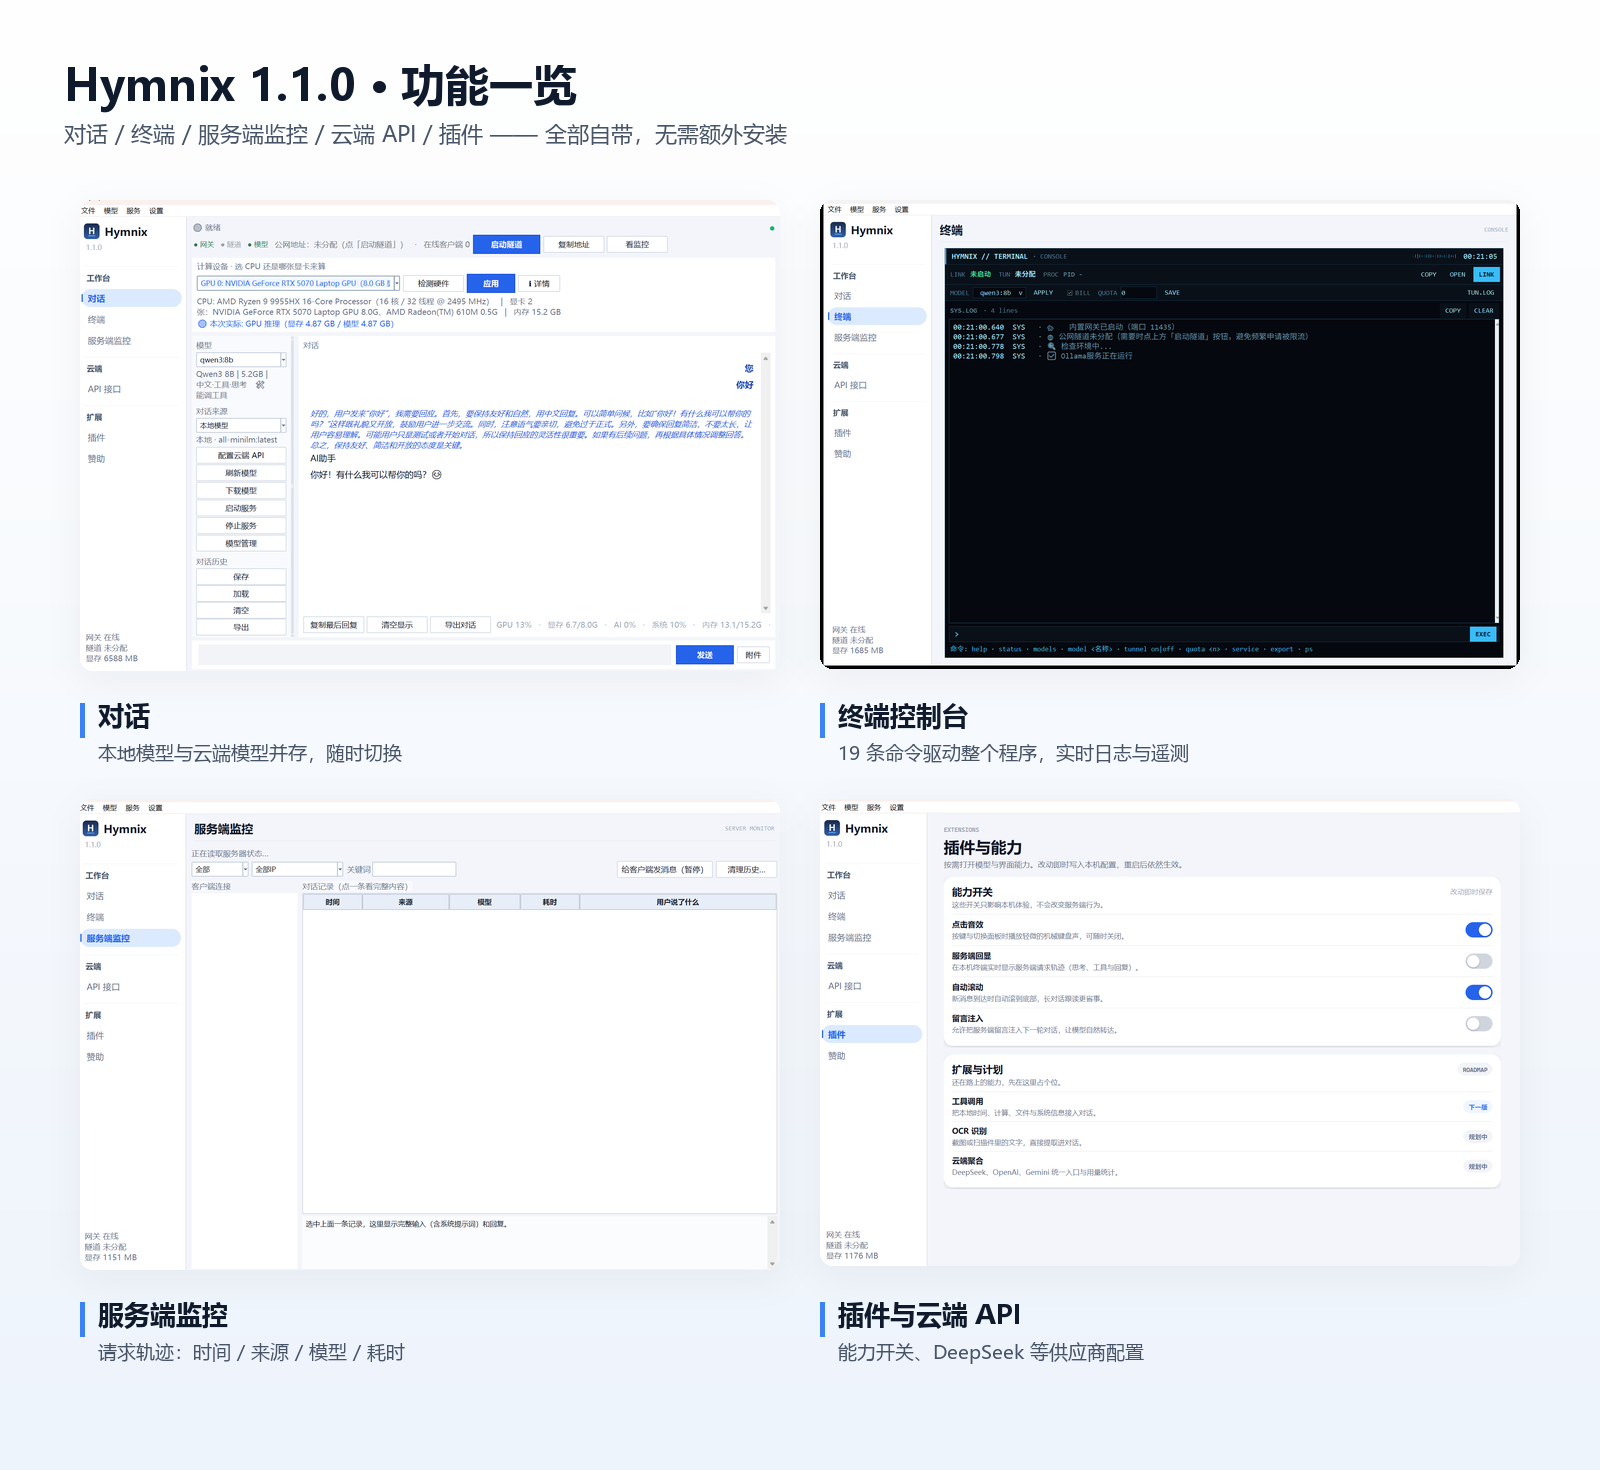
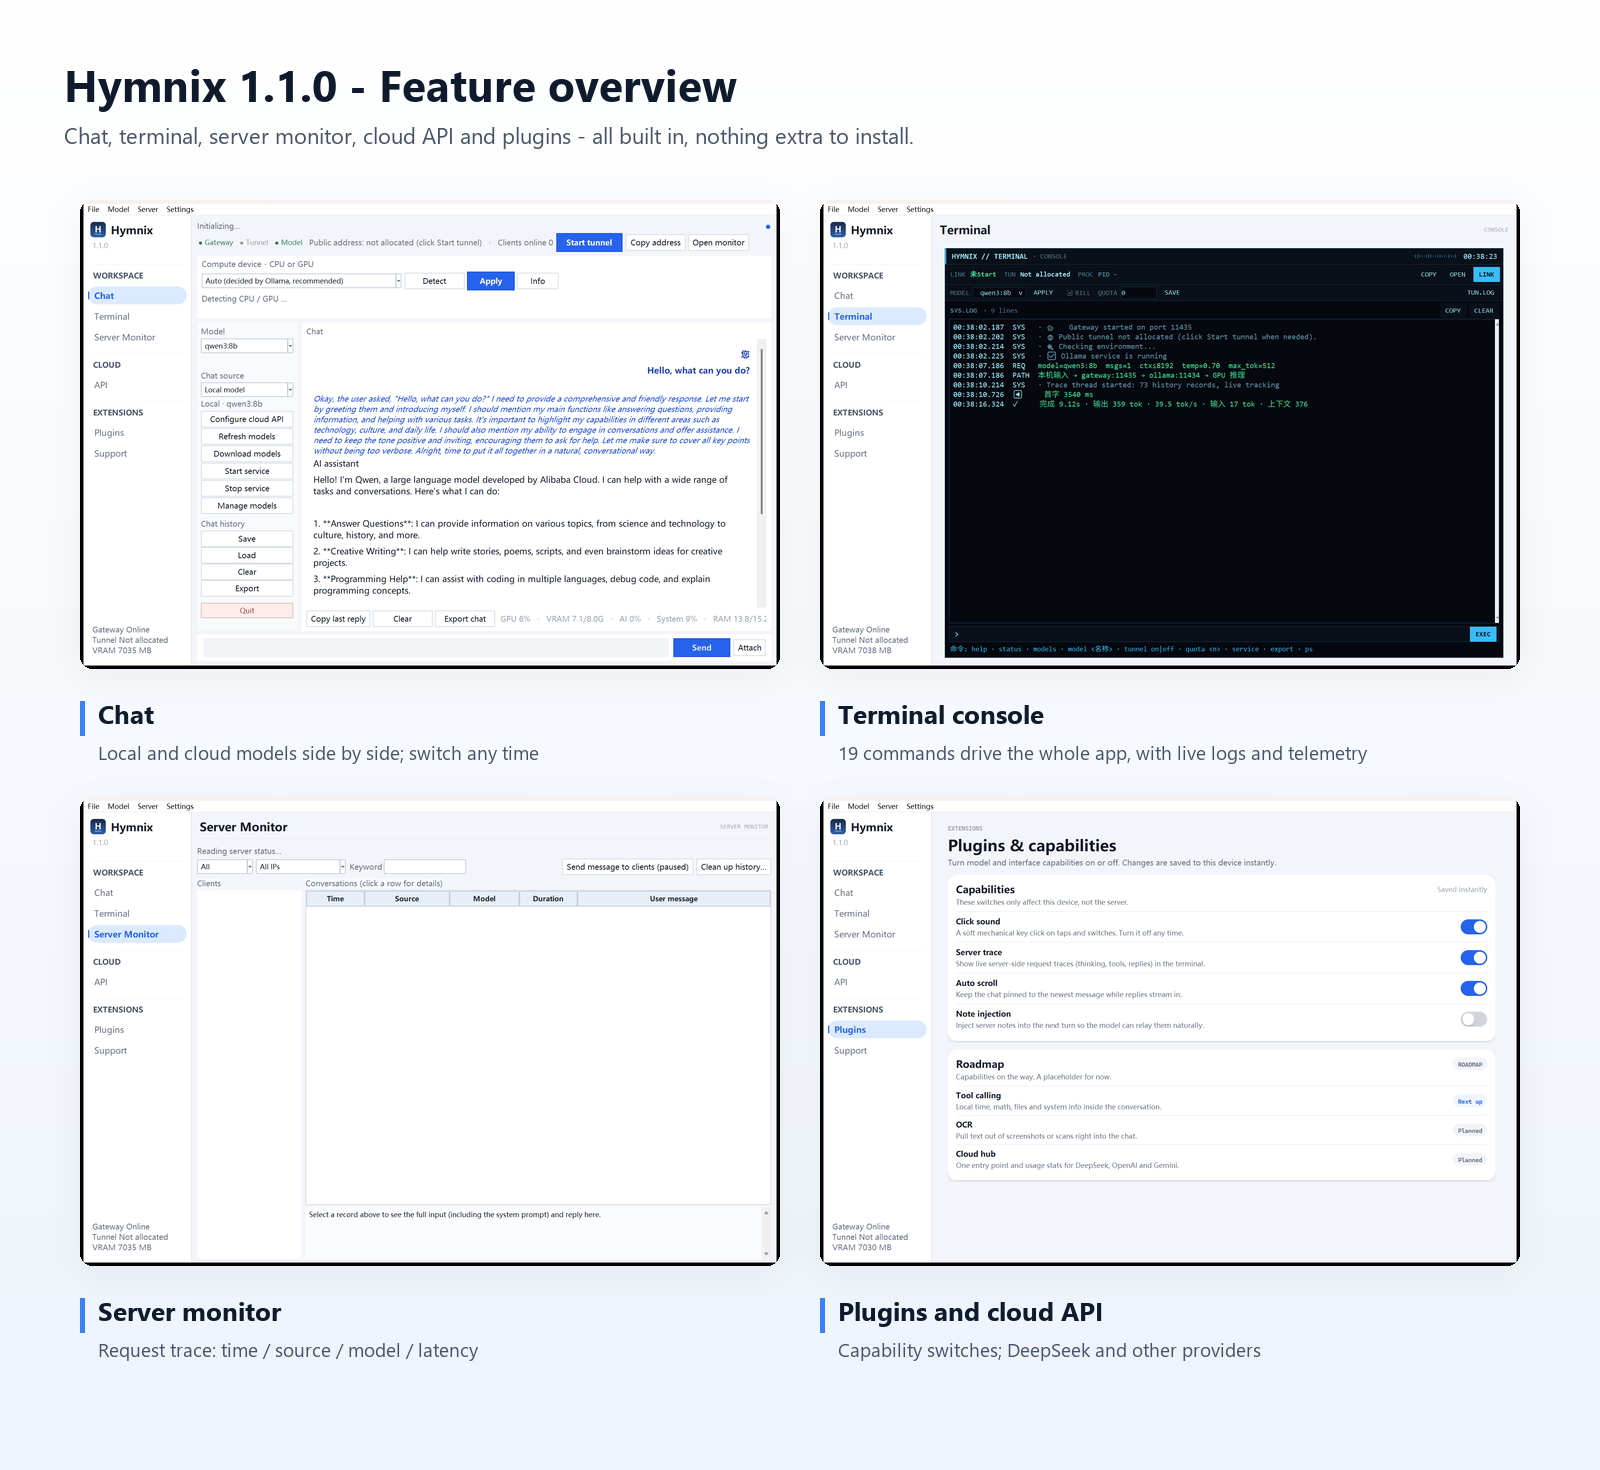
feat(i18n): finish English UI coverage; docs: English-first screenshots

diff --git a/server/hymnix_main.py b/server/hymnix_main.py
@@ -324,6 +324,16 @@ def T(zh, en=None):
     return en if lang.startswith("en") else en if lang not in ("zh",) else zh
 
 
+def AI_NAME(cfg):
+    """Display name for the assistant; the built-in default follows the UI language."""
+    value = str((cfg or {}).get("ai_name") or "").strip()
+    if not value:
+        value = "AI助手"
+    if LANG.get("cur") == "en" and value == "AI助手":
+        return "AI assistant"
+    return value
+
+
 ZH2EN.update({
     "使用帮助": "Help",
     "更新日志": "Changelog",
@@ -425,6 +435,52 @@ TERMS = {
     "未连接": "Disconnected", "可用": "Available", "不可用": "Unavailable",
     "选择": "Select", "浏览": "Browse", "编辑": "Edit", "添加": "Add",
 }
+
+ZH2EN.update({
+    "AI助手": "AI assistant",
+    "您": "You",
+    "对话来源": "Chat source",
+    "本地模型": "Local model",
+    "云端 API": "Cloud API",
+    "配置云端 API": "Configure cloud API",
+    "云端 · OpenAI": "Cloud - OpenAI",
+    "正在初始化...": "Initializing...",
+    "正在初始化…": "Initializing…",
+    "检测 CPU / GPU ...": "Detecting CPU / GPU ...",
+    "检测 CPU / GPU …": "Detecting CPU / GPU …",
+    "系统": "System",
+    "在线客户端": "Clients online",
+    "本地": "Local",
+    "云端": "Cloud",
+    "分享给朋友的模型": "Model shared with friends",
+    "保存限额": "Save limit",
+    "计费": "Billing",
+    "每日限额(tokens, 0=不限)": "Daily limit (tokens, 0 = unlimited)",
+    "🟡 正在初始化...": "Initializing...",
+    "🟡 正在初始化…": "Initializing…",
+    "🟢 模型已就绪": "Model ready",
+    "正在检测 CPU / 显卡 ...": "Detecting CPU / GPU ...",
+    "正在检测 CPU / 显卡 …": "Detecting CPU / GPU …",
+    "公共隧道未分配（需要时点上方「启动隧道」按钮，避免频繁申请被限流）":
+        "Public tunnel not allocated - use Start tunnel when needed to avoid rate limits",
+})
+
+TERMS.update({
+    "AI助手": "AI assistant",
+    "正在初始化": "Initializing",
+    "检测 CPU / 显卡": "Detecting CPU / GPU",
+    "检测 CPU / GPU": "Detecting CPU / GPU",
+    "系统": "System",
+    "本地": "Local",
+    "云端": "Cloud",
+    "在线客户端": "Clients online",
+})
+
+_MON_KEY_BACK = {"All": "全部", "Today": "今天", "Last hour": "最近1小时", "All IPs": "全部IP"}
+
+
+def _mon_key(value):
+    return _MON_KEY_BACK.get(str(value).strip(), value)
 
 def _en_text(value):
     if not isinstance(value, str) or not value.strip():
@@ -1057,18 +1113,18 @@ CHANGELOG = [
         "time": "2026-11-05",
         "title": "终端 HUD · 一键更新 · 扁平化界面 · 启动提速",
         "items": [
-            "[新增] 终端页重做为深色 HUD 控制台：LINK/TUN/PROC 状态芯片、信号波形、遥测条、分级着色实时日志",
-            "[新增] 终端内置 19 条命令：help / status / version / models / model / sharemodel / config / path / tunnel / quota / billing / lang / service / hardware / export / history / logtail / clear / ps",
-            "[新增] 终端支持 ↑↓ 历史、Tab 补全、Ctrl+L 清屏，危险命令二次确认",
-            "[新增] 隧道详情整合进终端页（公网地址、二维码、cloudflared / ngrok 切换、最近日志），首页入口保留",
-            "[新增] 客户端内一键检查更新、下载、sha256 校验、安装重启（GitHub Releases）",
-            "[优化] 全局扁平化：8/12/16px 圆角、1px 描边、无阴影，去掉系统凸起灰边控件",
-            "[优化] 换页动画 280ms 缓出；首次进入插件页 / 赞助页不再错位抖动",
-            "[优化] 小字统一为微软雅黑 / Segoe UI，不再使用仿宋",
-            "[优化] 侧栏深色 H 图标、分组标题字距修正；默认以窗口模式启动",
-            "[优化] 启动去掉端口绑定的反向 DNS 解析，冷启动约 2.0s → 0.7s",
-            "[修复] 终端内容溢出标签页、底部命令行与页脚被裁切",
-            "[修复] 版本号统一为公版 v1.1.0，内部快照号全部移除",
+            "[新增] 终端页新的深色控制台：状态芯片、信号波形、遥测条、分级着色实时日志",
+            "[新增] 终端内置 19 条命令（help 查看全部），支持 ↑↓ 历史、Tab 补全、Ctrl+L 清屏",
+            "[新增] 破坏性操作二次确认",
+            "[新增] 隧道详情整合进终端页：公网地址、二维码、cloudflared / ngrok 切换、最近日志；首页入口保留",
+            "[新增] 一键更新：检查新版本、下载、SHA-256 校验、安装并重启",
+            "[优化] 全局扁平化：统一圆角与 1px 描边，界面更干净",
+            "[优化] 换页动画 280ms 缓出；插件页 / 赞助页首次进入不再错位",
+            "[优化] 小字统一为微软雅黑 / Segoe UI，显示更清晰",
+            "[优化] 侧栏图标与分组标题调整，默认以窗口模式启动",
+            "[优化] 冷启动更快（约 2.0s → 0.7s）",
+            "[修复] 终端内容限制在标签页内，底部命令行与页脚不再被裁切",
+            "[修复] 窗口按屏幕 DPI 与可用区域自适应，高缩放下不超出屏幕",
         ],
     },
     {
@@ -1082,7 +1138,7 @@ CHANGELOG = [
             "[新增] 界面语言扩到五种：中文 / English / Français / Русский / Español",
             "[新增] 云端 API 页可用：保存配置、测试连接、拉取模型列表、费用估算",
             "[新增] 用量统计：请求数、prompt/reply tokens、费用，按今日/累计汇总",
-            "[新增] 首次启动欢迎页：选择界面语言，本地模式直接使用（GitHub 登录预留）",
+            "[新增] 首次启动欢迎页：选择界面语言，本地模式直接使用",
             "[优化] 按钮去掉前置图标，对齐统一；移除冗余面板",
             "[优化] 状态栏、弹窗、菜单接入新的翻译体系",
             "[修复] 长对话裁剪保留全部 system 提示；同源请求串行处理",
@@ -2157,7 +2213,7 @@ class HuimengAIClient:
             import i18n as _i18n
             if not self.config.get("language"):
                 self.config["language"] = detect_language(self.config)
-            LANG["cur"] = self.config.get("language") or "zh"
+            LANG["cur"] = os.environ.get("HYMNIX_LANG") or self.config.get("language") or "zh"
             _i18n.init(LANG["cur"])
         except Exception:
             pass
@@ -2186,7 +2242,7 @@ class HuimengAIClient:
         try:
             if not self.config.get("language"):
                 self.config["language"] = detect_language(self.config)
-            self._lang = detect_language(self.config)
+            self._lang = os.environ.get("HYMNIX_LANG") or detect_language(self.config)
             LANG["cur"] = self._lang
             if self._lang == "en":
                 apply_zh2en(self.root, self._lang_memo)
@@ -2659,7 +2715,7 @@ class HuimengAIClient:
         if snap.get("ai_cpu") is not None:
             cores = snap.get("ai_cores") or 0.0
             if cores >= 0.05:
-                bits.append("AI %.0f%%（%.1f 核）" % (snap["ai_cpu"], cores))
+                bits.append(T("AI %.0f%%（%.1f 核）", "AI %.0f%% (%.1f cores)") % (snap["ai_cpu"], cores))
             else:
                 bits.append("AI %.0f%%" % snap["ai_cpu"])
         if snap.get("sys_cpu") is not None:
@@ -3784,9 +3840,9 @@ class HuimengAIClient:
             return
         self.chat_text.config(state=tk.NORMAL)
         if not getattr(self, "_stream_open", False):
-            ai_name = self.config.get("ai_name", "AI助手")
+            ai_name = AI_NAME(self.config)
             self._stream_start = self.chat_text.index("end-1c")
-            self.chat_text.insert(tk.END, "%s\n" % (self.config.get("ai_name") or "Hymnix"), "assistant")
+            self.chat_text.insert(tk.END, "%s\n" % (AI_NAME(self.config)), "assistant")
             self._stream_open = True
         self._stream_chars = int(getattr(self, "_stream_chars", 0)) + len(text)
         if getattr(self, "_t_first", None) is None:
@@ -3833,7 +3889,7 @@ class HuimengAIClient:
             uname = self.config.get("user_name") or "你"
             self._term("%s\n%s\n\n" % (uname, content), "user")
         elif role == "assistant":
-            aname = self.config.get("ai_name") or "Hymnix"
+            aname = AI_NAME(self.config)
             self._term("%s\n%s\n\n" % (aname, content), "assistant")
         else:
             bad = any(k in str(content) for k in ("❌", "失败", "错误", "异常", "超时", "未响应", "无效"))
@@ -3845,7 +3901,7 @@ class HuimengAIClient:
         try:
             self.chat_text.config(state=tk.NORMAL)
             if not getattr(self, "_stream_open", False):
-                self.chat_text.insert(tk.END, "%s\n" % (self.config.get("ai_name") or "Hymnix"), "assistant")
+                self.chat_text.insert(tk.END, "%s\n" % (AI_NAME(self.config)), "assistant")
                 self._stream_open = True
                 self._stream_chars = 0
             self._stream_chars = int(getattr(self, "_stream_chars", 0)) + len(text)
@@ -4070,7 +4126,7 @@ class HuimengAIClient:
                 self.chat_text.config(state=tk.DISABLED)
                 self.conversation_history = data.get("history", [])
                 user_name = self.config.get("user_name", "您")
-                ai_name = self.config.get("ai_name", "AI助手")
+                ai_name = AI_NAME(self.config)
                 for msg in self.conversation_history:
                     role = msg.get("role", "")
                     content = msg.get("content", "")
@@ -4159,7 +4215,7 @@ class HuimengAIClient:
             return
         try:
             user_name = self.config.get("user_name", "您")
-            ai_name = self.config.get("ai_name", "AI助手")
+            ai_name = AI_NAME(self.config)
             if fmt == "txt":
                 with open(filename, 'w', encoding='utf-8') as f:
                     f.write(f"对话记录 - {datetime.now().strftime('%Y-%m-%d %H:%M:%S')}\n")
@@ -5664,26 +5720,26 @@ class HuimengAIClient:
 
         top = ttk.Frame(outer, style="Bg.TFrame")
         top.pack(fill="x")
-        self.mon_status_var = tk.StringVar(value="正在读取服务器状态…")
+        self.mon_status_var = tk.StringVar(value=T("正在读取服务器状态…", "Reading server status..."))
         ttk.Label(top, textvariable=self.mon_status_var, style="Status.TLabel").pack(side="left")
         self.mon_url_var = tk.StringVar(value="")
         ttk.Label(top, textvariable=self.mon_url_var, foreground="#71757C").pack(side="right")
 
         bar2 = ttk.Frame(outer, style="Bg.TFrame")
         bar2.pack(fill="x", pady=(6, 0))
-        self.mon_time_var = tk.StringVar(value="全部")
-        ttk.Combobox(bar2, textvariable=self.mon_time_var, values=["全部", "今天", "最近1小时"],
+        self.mon_time_var = tk.StringVar(value=T("全部", "All"))
+        ttk.Combobox(bar2, textvariable=self.mon_time_var, values=[T("全部", "All"), T("今天", "Today"), T("最近1小时", "Last hour")],
                      state="readonly", width=10).pack(side="left")
-        self.mon_ip_var = tk.StringVar(value="全部IP")
-        self.mon_ip_box = ttk.Combobox(bar2, textvariable=self.mon_ip_var, values=["全部IP"],
+        self.mon_ip_var = tk.StringVar(value=T("全部IP", "All IPs"))
+        self.mon_ip_box = ttk.Combobox(bar2, textvariable=self.mon_ip_var, values=[T("全部IP", "All IPs")],
                                        state="readonly", width=18)
         self.mon_ip_box.pack(side="left", padx=(8, 0))
-        ttk.Label(bar2, text="关键词", style="BgMuted.TLabel").pack(side="left", padx=(10, 4))
+        ttk.Label(bar2, text=T("关键词", "Keyword"), style="BgMuted.TLabel").pack(side="left", padx=(10, 4))
         self.mon_kw_var = tk.StringVar(value="")
         ttk.Entry(bar2, textvariable=self.mon_kw_var, width=18).pack(side="left")
-        ttk.Button(bar2, text="清理历史…", style="Ghost.TButton",
+        ttk.Button(bar2, text=T("清理历史…", "Clean history..."), style="Ghost.TButton",
                    command=self.open_cleanup_dialog).pack(side="right")
-        send_btn = ttk.Button(bar2, text="给客户端发消息（暂停）", style="Ghost.TButton")
+        send_btn = ttk.Button(bar2, text=T("给客户端发消息（暂停）", "Message a client (paused)"), style="Ghost.TButton")
         send_btn.state(["disabled"])
         send_btn.pack(side="right", padx=(0, 8))
 
@@ -5693,7 +5749,7 @@ class HuimengAIClient:
         left = ttk.Frame(body, style="Bg.TFrame", width=270)
         left.pack(side="left", fill="y")
         left.pack_propagate(False)
-        ttk.Label(left, text="客户端连接", style="SideCaption.TLabel").pack(anchor="w", pady=(0, 4))
+        ttk.Label(left, text=T("客户端连接", "Clients"), style="SideCaption.TLabel").pack(anchor="w", pady=(0, 4))
         self.mon_clients = tk.Text(left, width=30, height=12, wrap="word", relief="flat",
                                    bg=THEME["card"], fg=THEME["text"], font=(UI_FONT, 9),
                                    padx=8, pady=6, state="disabled")
@@ -5701,9 +5757,9 @@ class HuimengAIClient:
 
         right = ttk.Frame(body, style="Bg.TFrame")
         right.pack(side="left", fill="both", expand=True, padx=(12, 0))
-        ttk.Label(right, text="对话记录（点一条看完整内容）", style="SideCaption.TLabel").pack(anchor="w", pady=(0, 4))
+        ttk.Label(right, text=T("对话记录（点一条看完整内容）", "Conversations (click a row for details)"), style="SideCaption.TLabel").pack(anchor="w", pady=(0, 4))
         cols = ("time", "ip", "model", "ms", "q")
-        heads = ("时间", "来源", "模型", "耗时", "用户说了什么")
+        heads = (T("时间", "Time"), T("来源", "Source"), T("模型", "Model"), T("耗时", "Latency"), T("用户说了什么", "User said"))
         widths = (70, 140, 100, 70, 420)
         self.mon_tree = ttk.Treeview(right, columns=cols, show="headings", height=11)
         for c, h, w in zip(cols, heads, widths):
@@ -5716,7 +5772,7 @@ class HuimengAIClient:
                                                     bg=THEME["input_bg"], fg=THEME["text"],
                                                     font=(UI_FONT, 9), relief="flat", padx=8, pady=6)
         self.mon_detail.pack(fill="both", expand=False, pady=(6, 0))
-        self.mon_detail.insert("1.0", "选中上面一条记录，这里显示完整输入（含系统提示词）和回复。")
+        self.mon_detail.insert("1.0", T("选中上面一条记录，这里显示完整输入（含系统提示词）和回复。", "Select a row above to see the full input (with system prompt) and the reply."))
         self.mon_detail.config(state="disabled")
         self._mon_records = []
         self.root.after(2200, self.refresh_monitor)
@@ -5814,14 +5870,14 @@ class HuimengAIClient:
                     txt.append("   “%s”" % c["last_prompt"][:40])
                 txt.append("────────────────")
             if not txt:
-                txt = ["还没有客户端连接。", "", "把公网地址和密钥发给朋友，", "他连上来之后这里会出现。"]
+                txt = [T("还没有客户端连接。", "No clients connected yet."), "", T("把公网地址和密钥发给朋友，", "Send the public address and key to a friend;"), T("他连上来之后这里会出现。", "their connection will show up here.")]
             self.mon_clients.config(state="normal")
             self.mon_clients.delete("1.0", "end")
             self.mon_clients.insert("1.0", chr(10).join(txt))
             self.mon_clients.config(state="disabled")
 
             recs_all = data.get("recent") or []
-            ips = ["全部IP"] + sorted(set(str(r.get("ip", "")) for r in recs_all if r.get("ip")))
+            ips = [T("全部IP", "All IPs")] + sorted(set(str(r.get("ip", "")) for r in recs_all if r.get("ip")))
             try:
                 self.mon_ip_box.configure(values=ips)
             except Exception:
@@ -6262,6 +6318,12 @@ class HuimengAIClient:
                                   font=(SIDEBAR_FONT, NAV_FONT_PT, "bold") if active else (SIDEBAR_FONT, NAV_FONT_PT))
                     bar.configure(bg="#2563EB" if active else bg)
             self._ui_click("tab")
+            try:
+                if LANG.get("cur") == "en":
+                    page = self.notebook.nametowidget(self.notebook.select())
+                    apply_zh2en(page, {})
+            except Exception:
+                pass
         except Exception:
             pass
 
@@ -6398,7 +6460,7 @@ class HuimengAIClient:
     # ==================== 监控筛选 / 历史清理 ====================
     def _mon_match(self, rec):
         try:
-            scope = self.mon_time_var.get()
+            scope = _mon_key(self.mon_time_var.get())
             if scope == "今天":
                 if not str(rec.get("t", "")).startswith(datetime.now().strftime("%Y-%m-%d")):
                     return False
@@ -6408,7 +6470,7 @@ class HuimengAIClient:
                         return False
                 except Exception:
                     return False
-            ip = self.mon_ip_var.get()
+            ip = _mon_key(self.mon_ip_var.get())
             if ip and ip != "全部IP" and str(rec.get("ip", "")) != ip:
                 return False
             kw = self.mon_kw_var.get().strip().lower()

diff --git a/docs/zh-CN/README.md b/docs/zh-CN/README.md
@@ -12,14 +12,14 @@
 
 ## 界面截图
 
-![Hymnix 1.1.0](images/preview.png)
+![Hymnix 1.1.0](images/zh/preview.png)
 
-![功能一览：对话 / 终端控制台 / 服务端监控 / 插件与云端 API](images/feature-overview.png)
+![功能一览：对话 / 终端控制台 / 服务端监控 / 插件与云端 API](images/zh/feature-overview.png)
 
 <details>
 <summary>终端控制台（点开）</summary>
 
-![终端控制台](images/terminal-console.png)
+![终端控制台](images/zh/terminal-console.png)
 
 </details>
 
